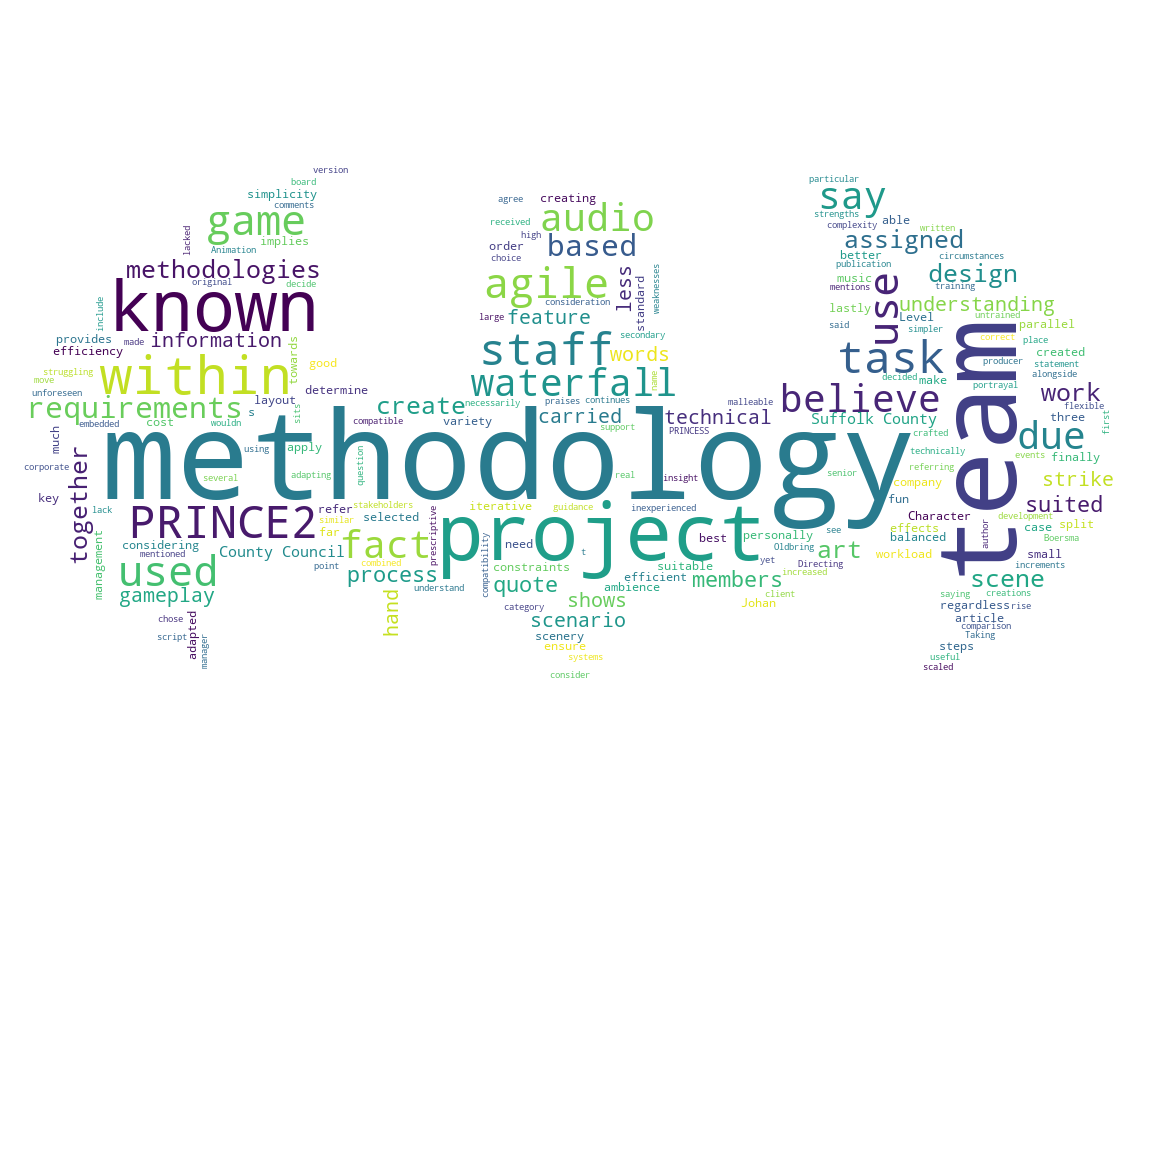
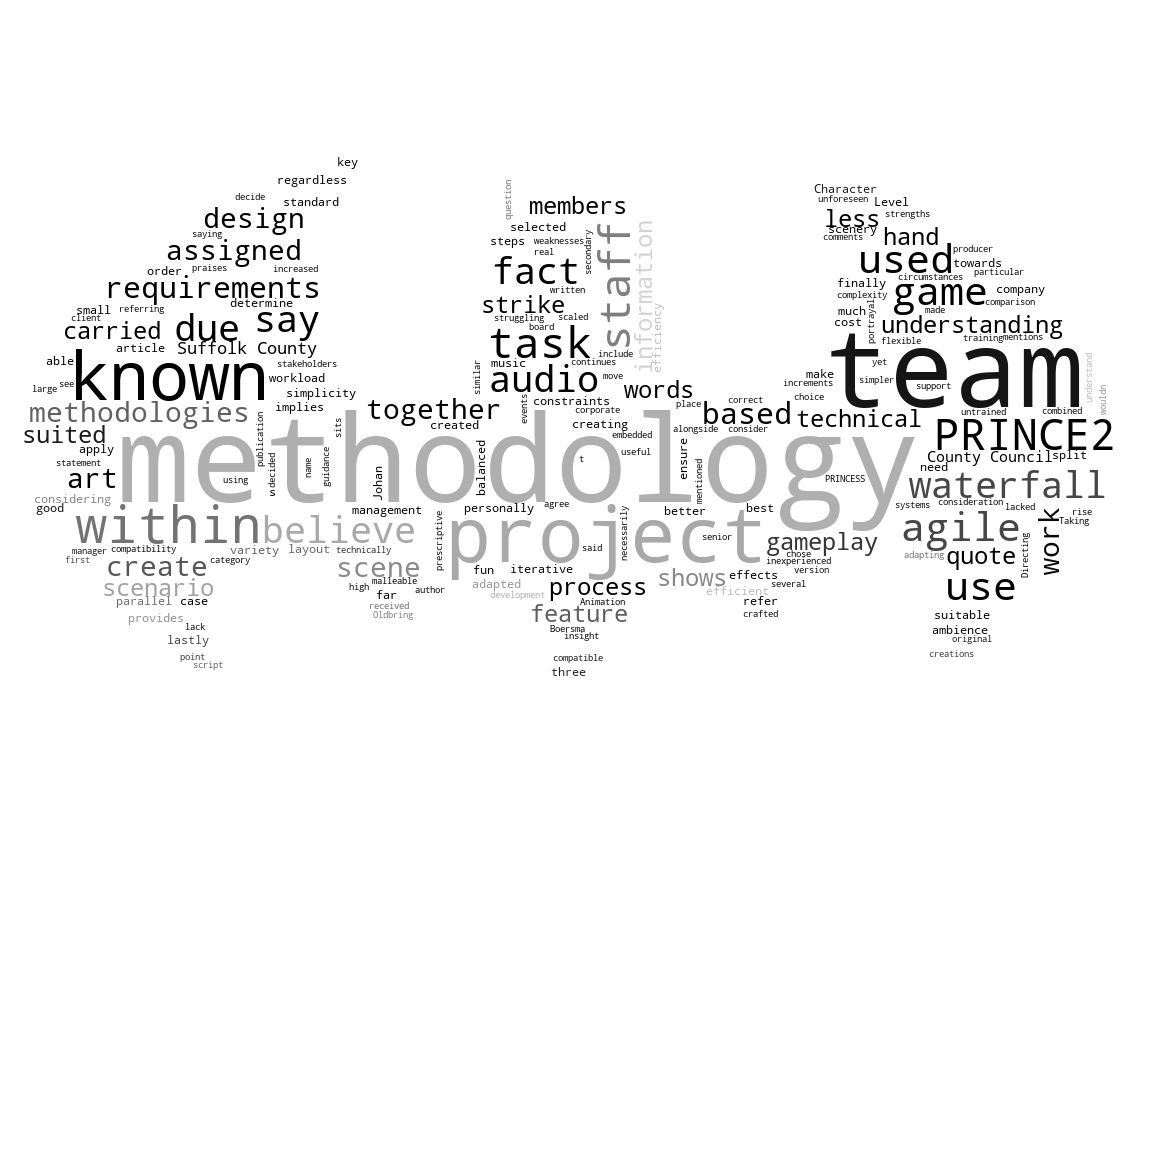
Mask colour

Changed region(s): [[0.0312, 0.1562, 0.9688, 0.5938], [0.2812, 0.125, 0.3125, 0.1562]]

diff --git a/word_cloud_batman.py b/word_cloud_batman.py
@@ -7,9 +7,10 @@ import numpy as np # get colour of image
 text = open('batman.txt', 'r', encoding='utf-8').read()
 stopwords = STOPWORDS
 
-# Appearance-related
+# Mask
 custom_mask = np.array(Image.open('batman.png'))
 
+# WordCloud attributes
 wc = WordCloud(
     mask = custom_mask,
     background_color = 'white',
@@ -19,6 +20,10 @@ wc = WordCloud(
 )
 # Generate
 wc.generate(text)
+
+# Use colour of mask image
+image_colours = ImageColorGenerator(custom_mask)
+wc.recolor(color_func = image_colours)
 
 # Store to file
 wc.to_file('batman_output.png')
